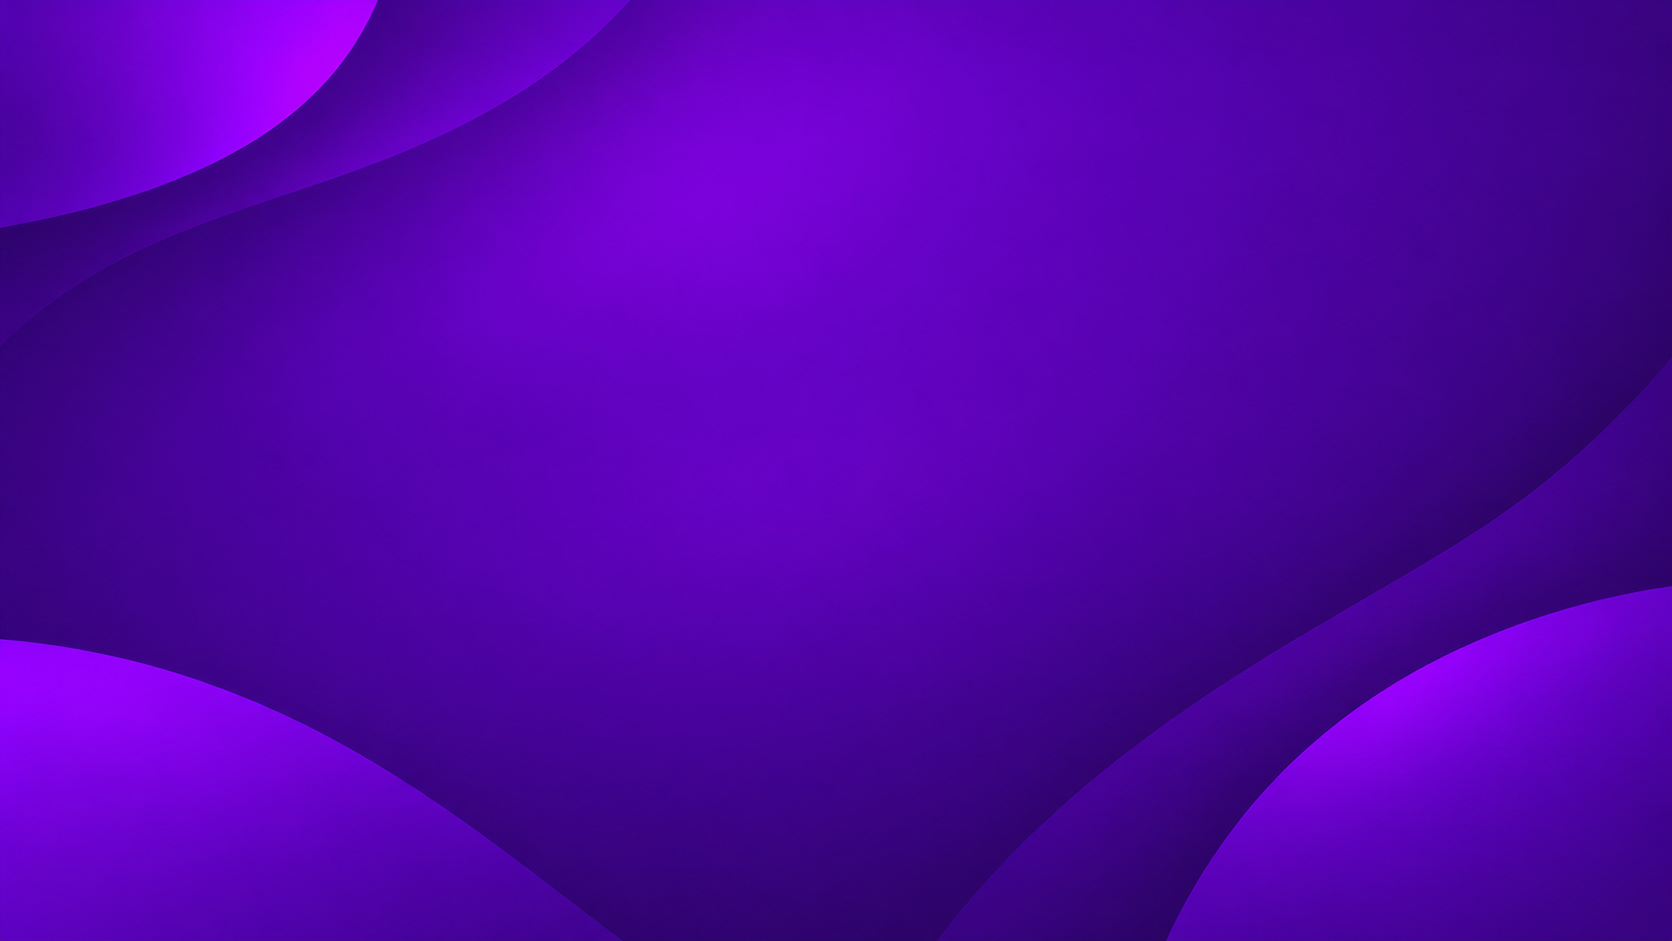
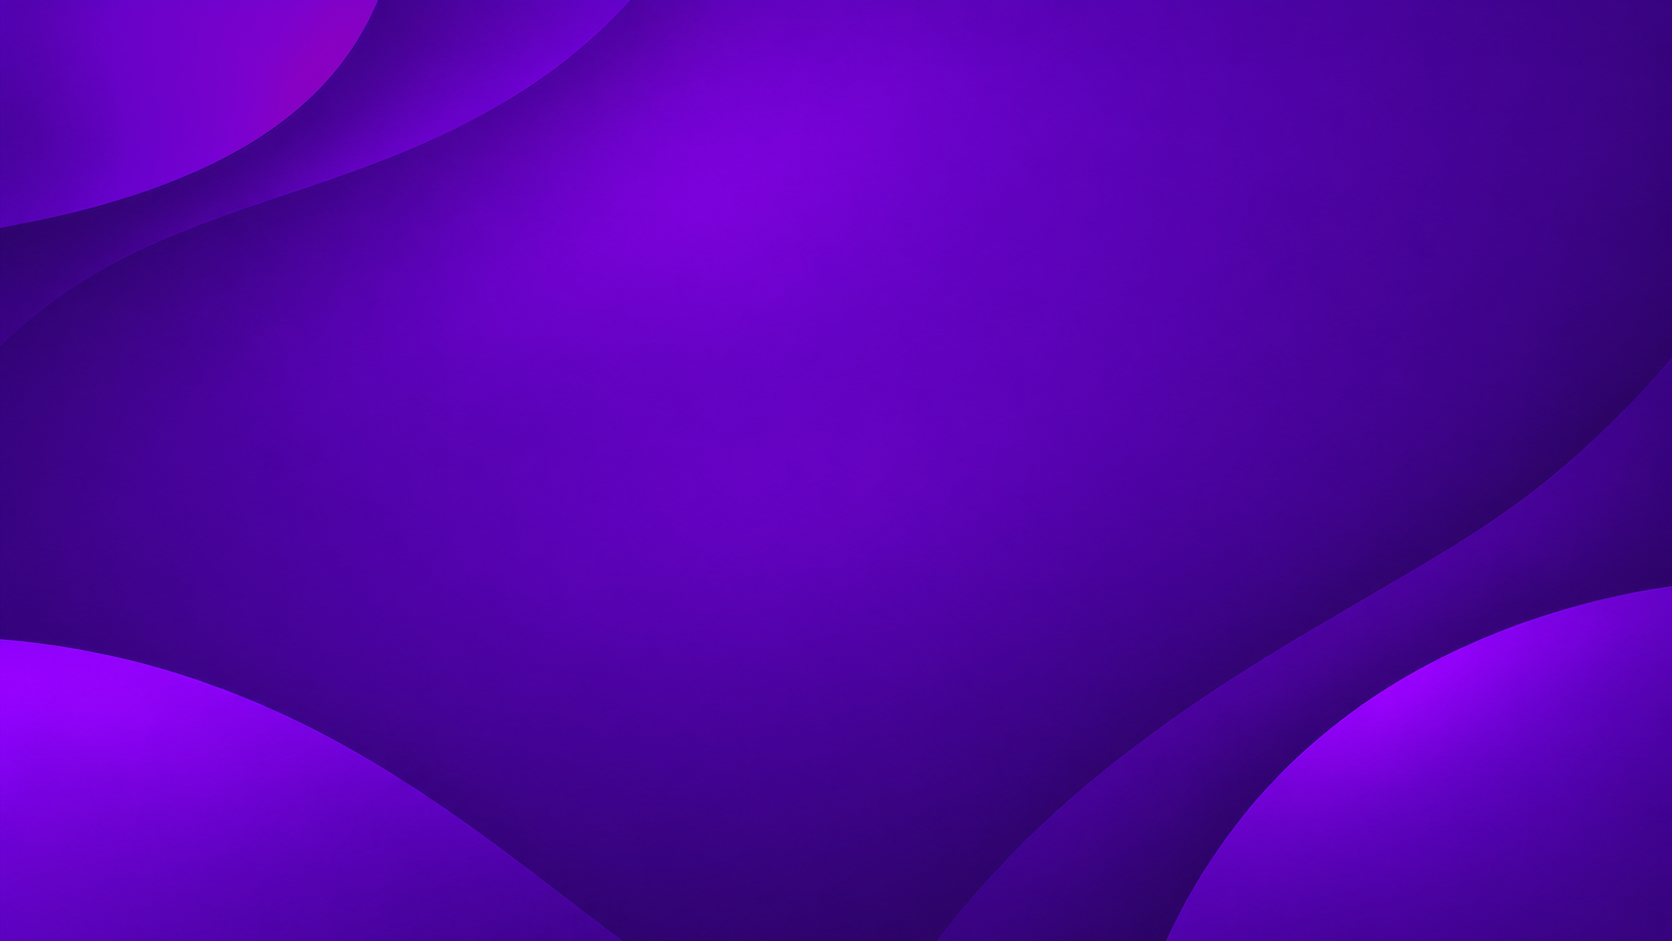
Remove shadow styles from login button for a cleaner design

Changed region(s): [[0.0933, 0.0, 0.2488, 0.1849]]

diff --git a/app/screens/Login.js b/app/screens/Login.js
@@ -477,11 +477,6 @@ const styles = StyleSheet.create({
     marginBottom: 24,
     borderRadius: 12,
     backgroundColor: "#8B2BF5",
-    shadowColor: "#A855F7",
-    shadowOpacity: 0.55,
-    shadowRadius: 16,
-    shadowOffset: { width: 0, height: 8 },
-    elevation: 10,
   },
   loginButton: {
     height: 56,
